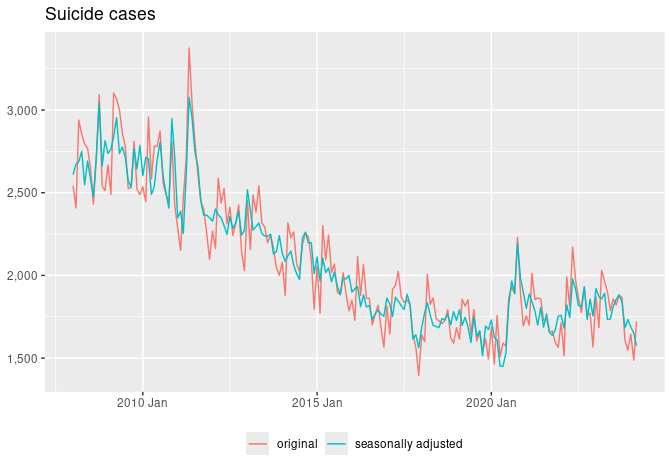
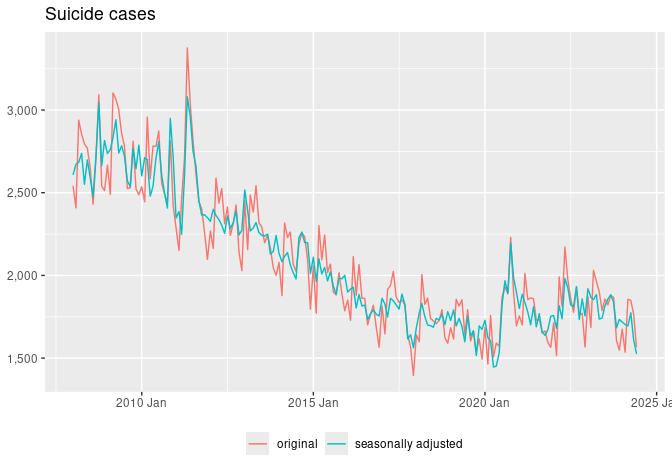
update June 2024 cases

diff --git a/README.md b/README.md
@@ -10,7 +10,7 @@ Mitsuo Shiota
 - [Suicide cases are bouncing back, but not as fast as the program
   suggests](#suicide-cases-are-bouncing-back-but-not-as-fast-as-the-program-suggests)
 
-Updated: 2024-04-30
+Updated: 2024-08-15
 
 ## Motivation
 
